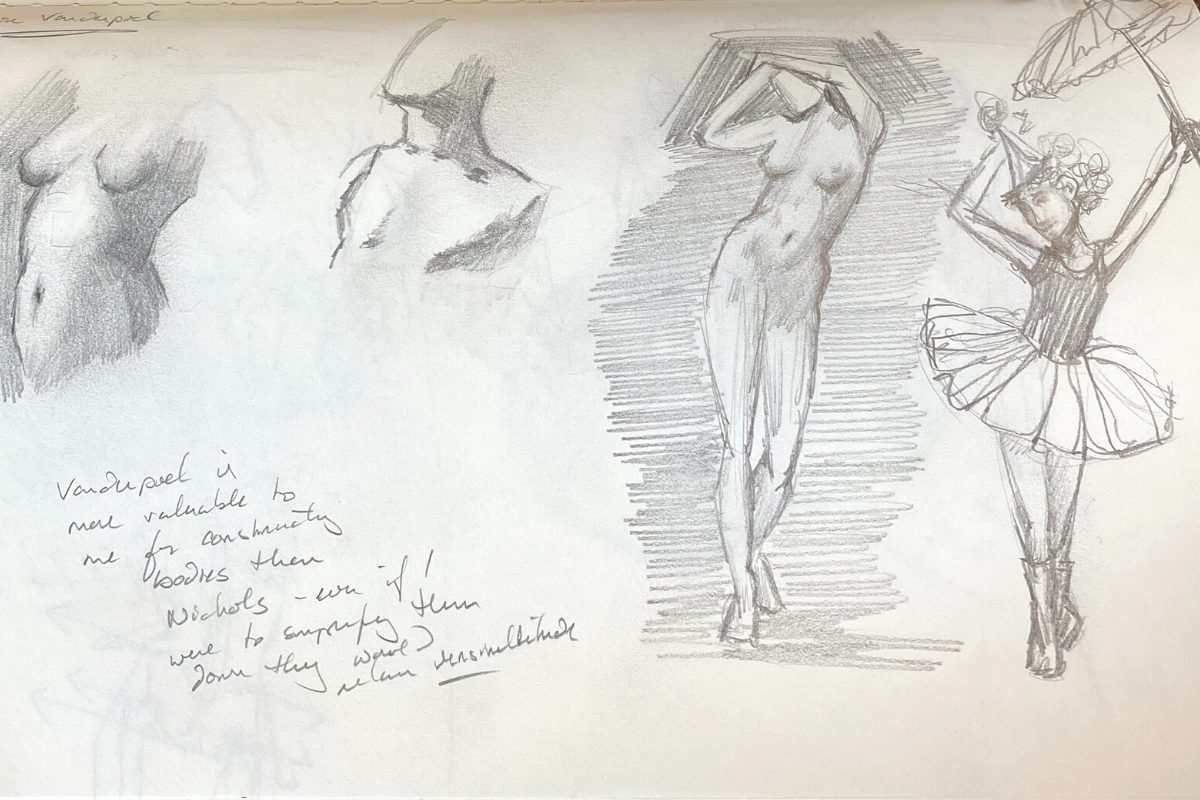
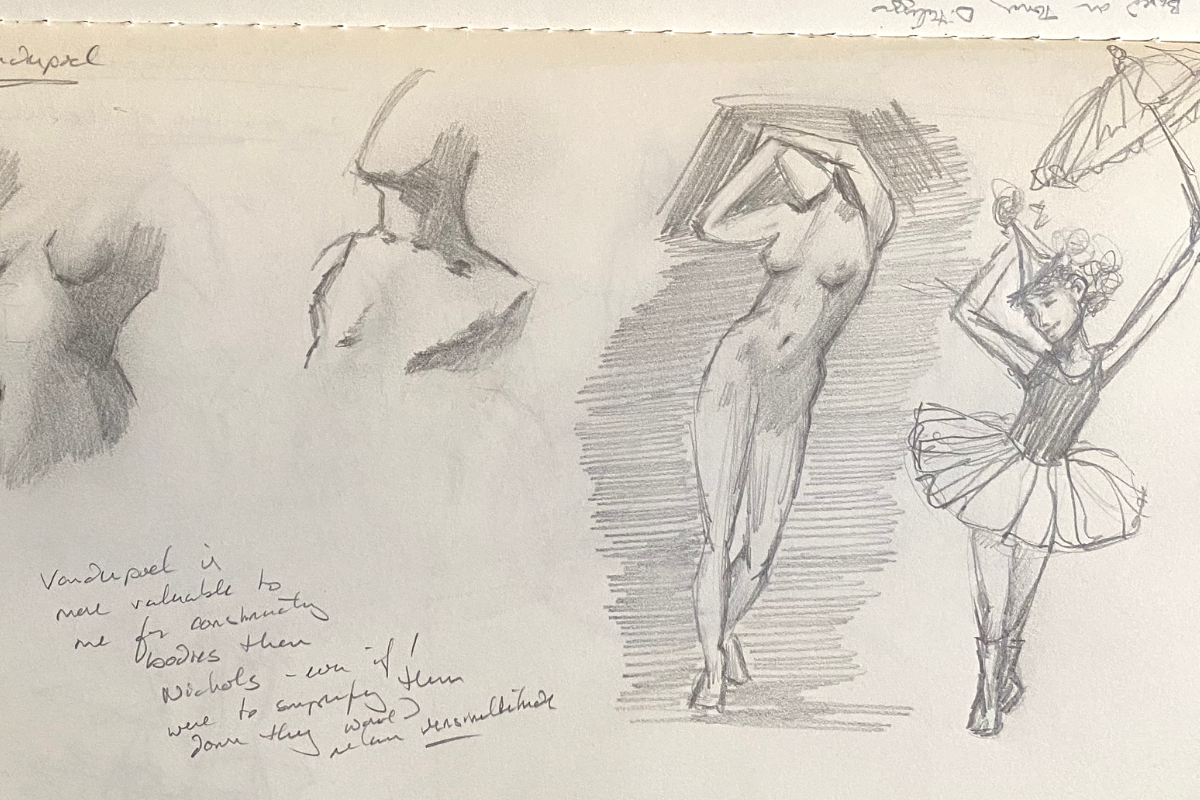
added photos to blog post

diff --git a/content/blog/artist-guilt.md b/content/blog/artist-guilt.md
@@ -5,7 +5,7 @@ author: "Susannah Fisher"
 draft: true
 
 # post thumb
-image: "images/post/20221008.png"
+image: "images/post/20221008a.png"
 
 # meta description
 description: "this is meta description"
@@ -38,6 +38,11 @@ The next feeling I had was that I was wasting my time and precious supplies on w
 It feeds the fear that you won’t have the resources to replace what you’ve used, which snowballs into fear of a lack of skill to use the “good supplies.” This becomes an avalanche of limiting beliefs that keep you from the personal projects that can help expand your skills.
 
 When I think about my previous job as a grants manager I worked on tertiary projects that used up time and resources not directly related to the grant project, but were necessary to keep my department running smoothly and productively. We called these supportive tasks  “administrative work.” So isn’t it logical to think of experimenting with supplies, working in sketchbooks, and trying out new techniques (or practicing existing ones) as “administrative artwork”?
+
+<figure>
+  <img src="/images/post/20221008.png" alt="figure pencil sketches in small sketchbook" title="Experimenting with Vanderpoel figures and then applying to a circus performer sketch.">
+  <figcaption>Experimenting with Vanderpoel figures and then applying to a circus performer sketch.</figcaption>
+</figure>
 
 ### Why am I afraid of messing up?
 Then there is the whole host of feelings associated with perfectionism. That everything I make has to be perfect and consumable by clients, customers, and social media. I love working in my sketchbook and learning by doing, but I constantly battle with making crap art not being valuable.
